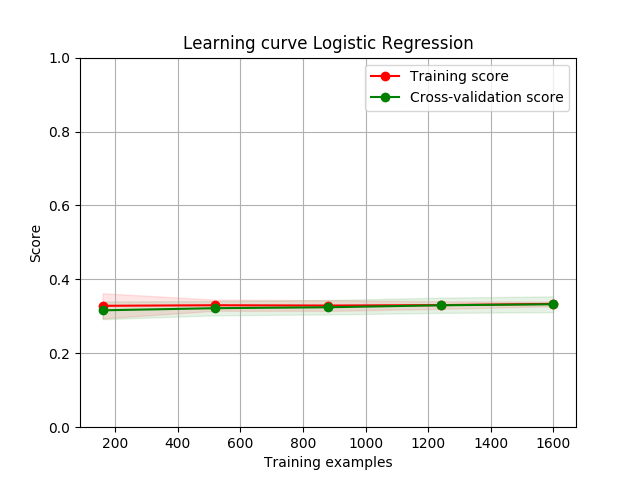
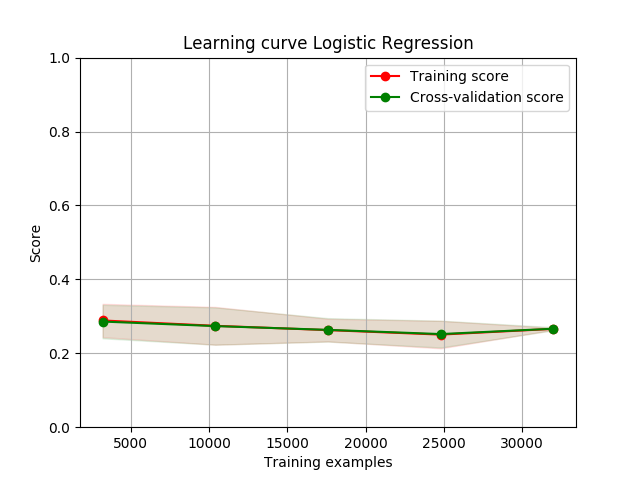
Commit

Changed region(s): [[0.1562, 0.5938, 0.875, 0.75], [0.5312, 0.9062, 0.9062, 0.9375], [0.1562, 0.9062, 0.5, 0.9375]]

diff --git a/main.py b/main.py
@@ -2,6 +2,8 @@
 
 import os
 import numpy as np
+import matplotlib as mpl
+mpl.use('Agg')
 import matplotlib.pyplot as plt
 
 from dataImporter import importData, sanitizeData
@@ -58,12 +60,13 @@ def retrieveLabelAndFeatures(data, ids):
     features = [data[i] for i in ids]
     for f in features:
         f.pop("vote_average")
-    print(features[0])
     #CF http://scikit-learn.org/stable/modules/generated/sklearn.feature_extraction.DictVectorizer.html
     v = DictVectorizer(sparse=False)
     features = v.fit_transform(features)
-    print(v.get_feature_names())
+    # print(v.get_feature_names())
+    print(features[0])
     print(len(features[0]))
+    print(len(features))
     return labels, features
 
 def initData():
@@ -95,7 +98,7 @@ def initData():
 def SVM(Xtrain, Ytrain, Xtest, Ytest):
     #Call logistic regression algorithm
     #CF http://scikit-learn.org/stable/auto_examples/linear_model/plot_iris_logistic.html
-    model_SVC = SVC(verbose=1)
+    model_SVC = SVC(verbose=0)
 
     title = "Learning curve SVC"
     cv = ShuffleSplit(n_splits=10, test_size=0.3, random_state=0)
@@ -155,8 +158,8 @@ if __name__ == "__main__":
     print("Movie recommendation engine - Predict score on IMDB")
 
     Xtrain, Ytrain, Xtest, Ytest = initData()
-    SVM(Xtrain, Ytrain, Xtest, Ytest)
     LogisticRegressionModel(Xtrain, Ytrain, Xtest, Ytest)
-    RandomForestModel(Xtrain, Ytrain, Xtest, Ytest)
+    # RandomForestModel(Xtrain, Ytrain, Xtest, Ytest)
+    # SVM(Xtrain, Ytrain, Xtest, Ytest)
     # SequentialCNNModel(Xtrain, Ytrain, Xtest, Ytest)
-    SequentialRNNModel(Xtrain, Ytrain, Xtest, Ytest)
+    # SequentialRNNModel(Xtrain, Ytrain, Xtest, Ytest)

diff --git a/dataImporter.py b/dataImporter.py
@@ -23,9 +23,9 @@ LABEL_NAME = "vote_average"
 FEATURES = ["adult", "budget",
             "genres",
             "popularity",
-            #"original_language",
+            "original_language",
             #"production_companies", "production_countries",
-            #"spoken_languages", #"keywords",
+            "spoken_languages", #"keywords",
             "revenue", "runtime"]
 
 def sanitizeData(data):
@@ -49,8 +49,8 @@ def sanitizeData(data):
         #Sanitize dicts of multiple string value, keeping only the "name" field
         for stringDic in [
                           "genres",
-                          #"spoken_languages",
-                          #"production_companies", "production_countries"
+                          "spoken_languages",
+                          #production_companies", "production_countries"
                           #"keywords"
                           ]:
             findName = re.compile("'name':( '.*?')")
@@ -61,10 +61,10 @@ def sanitizeData(data):
             data[idValue].pop(stringDic)
 
         #Sanitize strings, keeping only the value
-        # for stringDic in ["original_language"]:
-        #     value = data[idValue][stringDic]
-        #     data[idValue][value] = 1
-        #     data[idValue].pop(stringDic)
+        for stringDic in ["original_language"]:
+            value = data[idValue][stringDic]
+            data[idValue][value] = 1
+            data[idValue].pop(stringDic)
 
         #Hardcoded adult value
         data[idValue]["adult"] = 1 if data[idValue]["adult"] == "True" else 0

diff --git a/RNN_Models.py b/RNN_Models.py
@@ -1,5 +1,8 @@
 import numpy
 import keras
+import matplotlib as mpl
+mpl.use('Agg')
+import matplotlib.pyplot as plt
 
 from keras.models import Sequential
 from keras.layers import Dense, Activation, Dropout, LSTM
